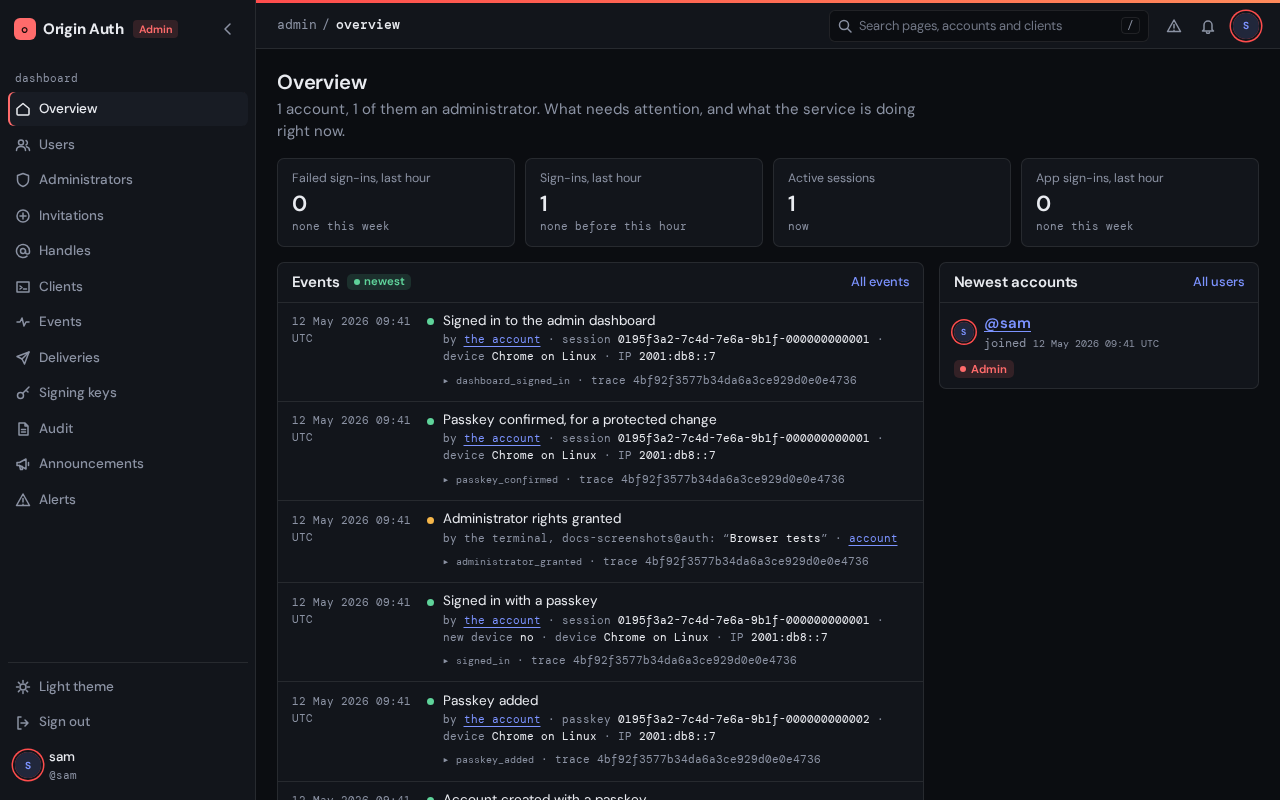
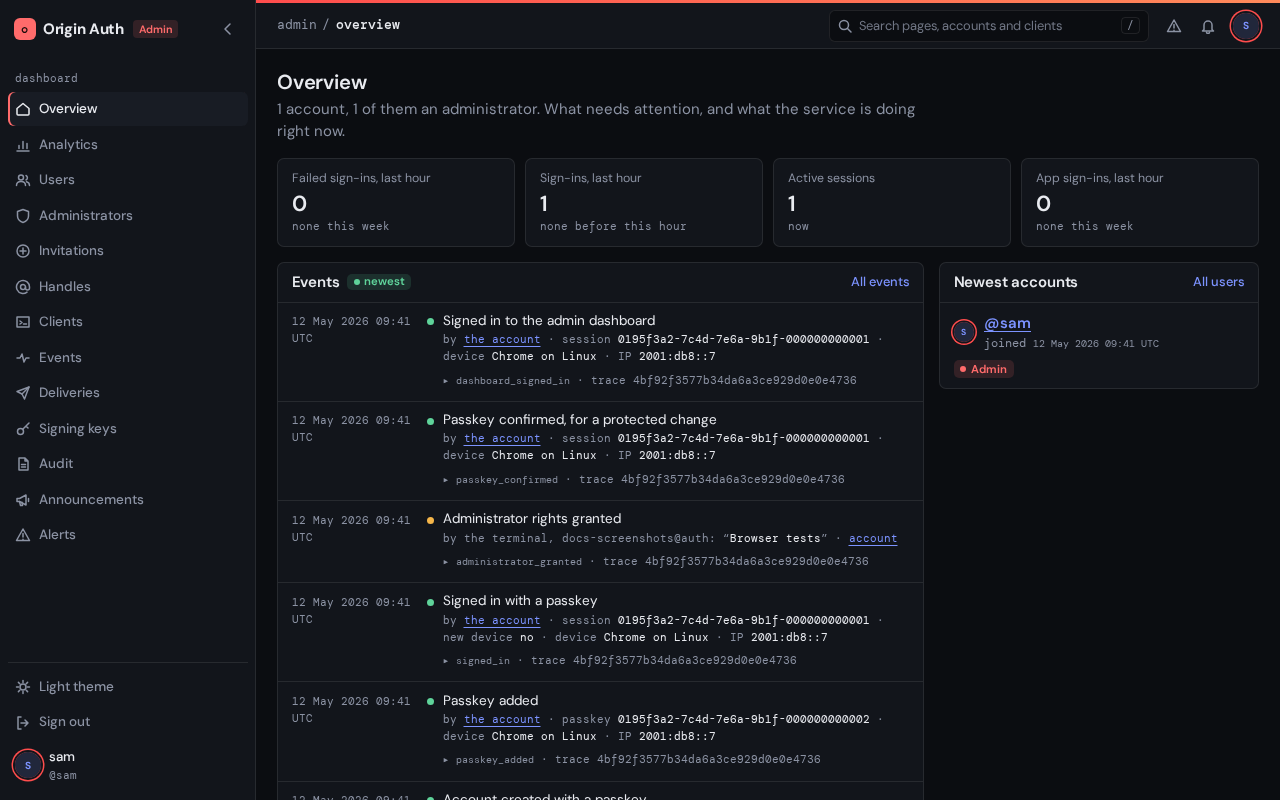
docs(admin): the overview's screenshot shows the Analytics tab

diff --git a/apps/auth-service/src/admin/analytics/mod.rs b/apps/auth-service/src/admin/analytics/mod.rs
@@ -40,7 +40,6 @@ pub(crate) trait Period: Sized {
         (0..Self::COUNT)
             .map(|n| Self::since(now) + n * Self::SECONDS)
             .map(|at| {
-                // Rows come sorted, so each is the next one or none.
                 while rows.next_if(|row| row.start() < at).is_some() {}
                 rows.next_if(|row| row.start() == at)
                     .unwrap_or_else(|| Self::empty(at))
@@ -203,8 +202,6 @@ impl AdminService {
     ) -> Result<Analytics, AdminError> {
         operator.authorize_read(&self.database).await?;
         let now = Utc::now();
-        // Each query reads from the first period the page shows, at the same
-        // `now` the periods are filled in at. Times are UTC.
         let hours = HourOfRequests::since(now).to_string();
         let days = DayOfSignIns::since(now).to_string();
         let (hours, days) = (&[("since", hours.as_str())], &[("since", days.as_str())]);

diff --git a/crates/ui/src/charts/mod.rs b/crates/ui/src/charts/mod.rs
@@ -294,8 +294,12 @@ pub async fn line_chart<'a>(
 /// A horizontal bar per point, longest for the largest, with its value at its
 /// tip: for counts of a few named things.
 #[component]
-pub async fn bar_chart<'a>(caption: &'a str, points: &'a [Point]) -> Result<impl View> {
-    // Half the width of the others: bar charts sit two to a row.
+pub async fn bar_chart<'a>(
+    /// What the chart shows, for screen readers and the table.
+    caption: &'a str,
+    /// A bar each, in order.
+    points: &'a [Point],
+) -> Result<impl View> {
     const WIDTH: f64 = 440.0;
     const ROW: f64 = 30.0;
     const LABEL: f64 = 160.0;
@@ -351,6 +355,7 @@ async fn chart_table<'a>(
     caption: &'a str,
     /// Each row's label.
     labels: Vec<&'a str>,
+    /// A column each, with a value per row.
     series: Vec<Series<'a>>,
 ) -> Result<impl View> {
     Ok(view! {

diff --git a/crates/telemetry/src/analytics/store.rs b/crates/telemetry/src/analytics/store.rs
@@ -422,8 +422,6 @@ impl Store {
                 .await?;
         }
         if let Some(reader) = reader {
-            // The signals' tables, never `spans` and `logs`, which say what
-            // one request did.
             let mut grants: Vec<String> = tables
                 .iter()
                 .map(|table| format!("SELECT ON {database}.{}", table.name))

diff --git a/crates/ui/src/admin/analytics.rs b/crates/ui/src/admin/analytics.rs
@@ -218,7 +218,6 @@ async fn usage_cards<'a>(
     };
     let steps: Vec<Point> = AuthorizationStepKind::ALL
         .into_iter()
-        // A step this release doesn't know shows only once counted.
         .filter(|step| *step != AuthorizationStepKind::Other || counted(*step) > 0.0)
         .map(|step| Point {
             label: step_name(step).to_owned(),
